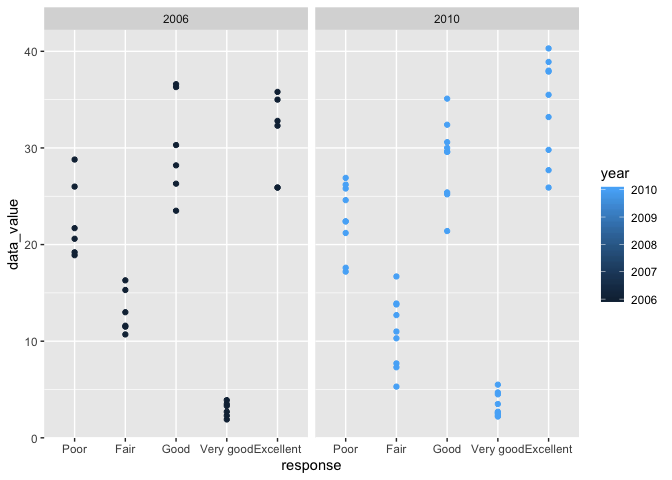
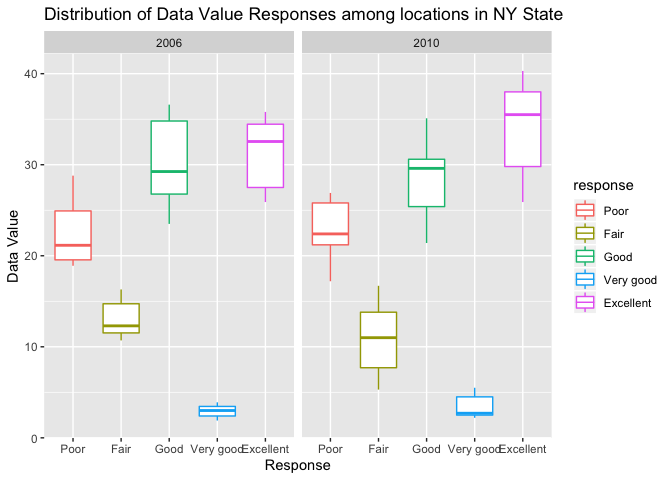
problem 3 complete

diff --git a/p8105_hw3_nja2140.md b/p8105_hw3_nja2140.md
@@ -351,9 +351,14 @@ brfss_three
 ``` r
 two_dv=
   brfss_three %>%
-  ggplot(aes(x = response, y = data_value, color = year)) +
-  geom_point() +
-  facet_grid(. ~year)
+  ggplot(aes(x = response, y = data_value, color = response)) +
+  geom_boxplot() +
+  facet_grid(. ~year) +
+  labs(
+    title = "Distribution of Data Value Responses among locations in NY State",
+    x = "Response",
+    y = "Data Value"
+  )
 two_dv
 ```
 
@@ -370,7 +375,7 @@ acce_data =
   janitor::clean_names() %>%
   mutate(day = factor(day, labels = c("Monday", "Tuesday", "Wednesday", "Thursday", "Friday",     "Saturday", "Sunday")), dow = day == "Saturday" | day == "Sunday",
          dow = ifelse(dow ==TRUE, "Weekend", "Weekday")) %>% 
-  select(week, day, dow, everything(), -day_id) 
+  select(week, day, dow, everything()) 
 ```
 
     ## Parsed with column specification:
@@ -385,55 +390,111 @@ acce_data =
 acce_data
 ```
 
-    ## # A tibble: 35 x 1,443
-    ##     week day   dow   activity_1 activity_2 activity_3 activity_4 activity_5
-    ##    <dbl> <fct> <chr>      <dbl>      <dbl>      <dbl>      <dbl>      <dbl>
-    ##  1     1 Mond… Week…       88.4       82.2       64.4       70.0       75.0
-    ##  2     1 Tues… Week…        1          1          1          1          1  
-    ##  3     1 Wedn… Week…        1          1          1          1          1  
-    ##  4     1 Thur… Week…        1          1          1          1          1  
-    ##  5     1 Frid… Week…       47.4       48.8       46.9       35.8       49.0
-    ##  6     1 Satu… Week…       64.8       59.5       73.7       45.7       42.4
-    ##  7     1 Sund… Week…       71.1      103.        68.5       45.4       37.8
-    ##  8     2 Mond… Week…      675        542       1010        779        509  
-    ##  9     2 Tues… Week…      291        335        393        335        263  
-    ## 10     2 Wedn… Week…       64         11          1          1          1  
-    ## # … with 25 more rows, and 1,435 more variables: activity_6 <dbl>,
-    ## #   activity_7 <dbl>, activity_8 <dbl>, activity_9 <dbl>,
-    ## #   activity_10 <dbl>, activity_11 <dbl>, activity_12 <dbl>,
-    ## #   activity_13 <dbl>, activity_14 <dbl>, activity_15 <dbl>,
-    ## #   activity_16 <dbl>, activity_17 <dbl>, activity_18 <dbl>,
-    ## #   activity_19 <dbl>, activity_20 <dbl>, activity_21 <dbl>,
-    ## #   activity_22 <dbl>, activity_23 <dbl>, activity_24 <dbl>,
-    ## #   activity_25 <dbl>, activity_26 <dbl>, activity_27 <dbl>,
-    ## #   activity_28 <dbl>, activity_29 <dbl>, activity_30 <dbl>,
-    ## #   activity_31 <dbl>, activity_32 <dbl>, activity_33 <dbl>,
-    ## #   activity_34 <dbl>, activity_35 <dbl>, activity_36 <dbl>,
-    ## #   activity_37 <dbl>, activity_38 <dbl>, activity_39 <dbl>,
-    ## #   activity_40 <dbl>, activity_41 <dbl>, activity_42 <dbl>,
-    ## #   activity_43 <dbl>, activity_44 <dbl>, activity_45 <dbl>,
-    ## #   activity_46 <dbl>, activity_47 <dbl>, activity_48 <dbl>,
-    ## #   activity_49 <dbl>, activity_50 <dbl>, activity_51 <dbl>,
-    ## #   activity_52 <dbl>, activity_53 <dbl>, activity_54 <dbl>,
-    ## #   activity_55 <dbl>, activity_56 <dbl>, activity_57 <dbl>,
-    ## #   activity_58 <dbl>, activity_59 <dbl>, activity_60 <dbl>,
-    ## #   activity_61 <dbl>, activity_62 <dbl>, activity_63 <dbl>,
-    ## #   activity_64 <dbl>, activity_65 <dbl>, activity_66 <dbl>,
-    ## #   activity_67 <dbl>, activity_68 <dbl>, activity_69 <dbl>,
-    ## #   activity_70 <dbl>, activity_71 <dbl>, activity_72 <dbl>,
-    ## #   activity_73 <dbl>, activity_74 <dbl>, activity_75 <dbl>,
-    ## #   activity_76 <dbl>, activity_77 <dbl>, activity_78 <dbl>,
-    ## #   activity_79 <dbl>, activity_80 <dbl>, activity_81 <dbl>,
-    ## #   activity_82 <dbl>, activity_83 <dbl>, activity_84 <dbl>,
-    ## #   activity_85 <dbl>, activity_86 <dbl>, activity_87 <dbl>,
-    ## #   activity_88 <dbl>, activity_89 <dbl>, activity_90 <dbl>,
-    ## #   activity_91 <dbl>, activity_92 <dbl>, activity_93 <dbl>,
-    ## #   activity_94 <dbl>, activity_95 <dbl>, activity_96 <dbl>,
-    ## #   activity_97 <dbl>, activity_98 <dbl>, activity_99 <dbl>,
-    ## #   activity_100 <dbl>, activity_101 <dbl>, activity_102 <dbl>,
-    ## #   activity_103 <dbl>, activity_104 <dbl>, activity_105 <dbl>, …
+    ## # A tibble: 35 x 1,444
+    ##     week day   dow   day_id activity_1 activity_2 activity_3 activity_4
+    ##    <dbl> <fct> <chr>  <dbl>      <dbl>      <dbl>      <dbl>      <dbl>
+    ##  1     1 Mond… Week…      1       88.4       82.2       64.4       70.0
+    ##  2     1 Tues… Week…      2        1          1          1          1  
+    ##  3     1 Wedn… Week…      3        1          1          1          1  
+    ##  4     1 Thur… Week…      4        1          1          1          1  
+    ##  5     1 Frid… Week…      5       47.4       48.8       46.9       35.8
+    ##  6     1 Satu… Week…      6       64.8       59.5       73.7       45.7
+    ##  7     1 Sund… Week…      7       71.1      103.        68.5       45.4
+    ##  8     2 Mond… Week…      8      675        542       1010        779  
+    ##  9     2 Tues… Week…      9      291        335        393        335  
+    ## 10     2 Wedn… Week…     10       64         11          1          1  
+    ## # … with 25 more rows, and 1,436 more variables: activity_5 <dbl>,
+    ## #   activity_6 <dbl>, activity_7 <dbl>, activity_8 <dbl>,
+    ## #   activity_9 <dbl>, activity_10 <dbl>, activity_11 <dbl>,
+    ## #   activity_12 <dbl>, activity_13 <dbl>, activity_14 <dbl>,
+    ## #   activity_15 <dbl>, activity_16 <dbl>, activity_17 <dbl>,
+    ## #   activity_18 <dbl>, activity_19 <dbl>, activity_20 <dbl>,
+    ## #   activity_21 <dbl>, activity_22 <dbl>, activity_23 <dbl>,
+    ## #   activity_24 <dbl>, activity_25 <dbl>, activity_26 <dbl>,
+    ## #   activity_27 <dbl>, activity_28 <dbl>, activity_29 <dbl>,
+    ## #   activity_30 <dbl>, activity_31 <dbl>, activity_32 <dbl>,
+    ## #   activity_33 <dbl>, activity_34 <dbl>, activity_35 <dbl>,
+    ## #   activity_36 <dbl>, activity_37 <dbl>, activity_38 <dbl>,
+    ## #   activity_39 <dbl>, activity_40 <dbl>, activity_41 <dbl>,
+    ## #   activity_42 <dbl>, activity_43 <dbl>, activity_44 <dbl>,
+    ## #   activity_45 <dbl>, activity_46 <dbl>, activity_47 <dbl>,
+    ## #   activity_48 <dbl>, activity_49 <dbl>, activity_50 <dbl>,
+    ## #   activity_51 <dbl>, activity_52 <dbl>, activity_53 <dbl>,
+    ## #   activity_54 <dbl>, activity_55 <dbl>, activity_56 <dbl>,
+    ## #   activity_57 <dbl>, activity_58 <dbl>, activity_59 <dbl>,
+    ## #   activity_60 <dbl>, activity_61 <dbl>, activity_62 <dbl>,
+    ## #   activity_63 <dbl>, activity_64 <dbl>, activity_65 <dbl>,
+    ## #   activity_66 <dbl>, activity_67 <dbl>, activity_68 <dbl>,
+    ## #   activity_69 <dbl>, activity_70 <dbl>, activity_71 <dbl>,
+    ## #   activity_72 <dbl>, activity_73 <dbl>, activity_74 <dbl>,
+    ## #   activity_75 <dbl>, activity_76 <dbl>, activity_77 <dbl>,
+    ## #   activity_78 <dbl>, activity_79 <dbl>, activity_80 <dbl>,
+    ## #   activity_81 <dbl>, activity_82 <dbl>, activity_83 <dbl>,
+    ## #   activity_84 <dbl>, activity_85 <dbl>, activity_86 <dbl>,
+    ## #   activity_87 <dbl>, activity_88 <dbl>, activity_89 <dbl>,
+    ## #   activity_90 <dbl>, activity_91 <dbl>, activity_92 <dbl>,
+    ## #   activity_93 <dbl>, activity_94 <dbl>, activity_95 <dbl>,
+    ## #   activity_96 <dbl>, activity_97 <dbl>, activity_98 <dbl>,
+    ## #   activity_99 <dbl>, activity_100 <dbl>, activity_101 <dbl>,
+    ## #   activity_102 <dbl>, activity_103 <dbl>, activity_104 <dbl>, …
 
-The size of the dataset `acce_data` is 35 observtaions and 1443
+The size of the dataset `acce_data` is 35 observtaions and 1444
 variables. Key variables include what week and day of the week the data
 was collected, and the accelerometer data for each minute of the day
 data was collected.
+
+Traditional analyses of accelerometer data focus on the total activity
+over the day. Using your tidied dataset, aggregate accross minutes to
+create a total activity variable for each day, and create a table
+showing these totals. Are any trends apparent?
+
+``` r
+accel_table = acce_data%>%
+  pivot_longer(activity_1:activity_1440,
+    names_to = "activity_minute",
+    values_to = "activity") %>% 
+  group_by(day_id, day, week, dow) %>% 
+  summarize(daily_activity=sum(activity)) 
+accel_table
+```
+
+    ## # A tibble: 35 x 5
+    ## # Groups:   day_id, day, week [35]
+    ##    day_id day        week dow     daily_activity
+    ##     <dbl> <fct>     <dbl> <chr>            <dbl>
+    ##  1      1 Monday        1 Weekday        480543.
+    ##  2      2 Tuesday       1 Weekday         78828.
+    ##  3      3 Wednesday     1 Weekday        376254 
+    ##  4      4 Thursday      1 Weekday        631105 
+    ##  5      5 Friday        1 Weekday        355924.
+    ##  6      6 Saturday      1 Weekend        307094.
+    ##  7      7 Sunday        1 Weekend        340115.
+    ##  8      8 Monday        2 Weekday        568839 
+    ##  9      9 Tuesday       2 Weekday        295431 
+    ## 10     10 Wednesday     2 Weekday        607175 
+    ## # … with 25 more rows
+
+From the table, we cannot observe any particular trends.
+
+Make a single-panel plot that shows the 24-hour activity time courses
+for each day and use color to indicate day of the week. Describe in
+words any patterns or conclusions you can make based on this graph.
+
+``` r
+plot_accel=
+  accel_table %>%
+  ggplot(aes(x = day_id, y = daily_activity, color = day)) +
+  geom_point() +
+  geom_line() +
+  labs(
+    title = "24 Hour Activity Time by Day for Five Weeks",
+    x = "Day_ID",
+    y = "Total Activity Tiime"
+  )
+plot_accel
+```
+
+![](p8105_hw3_nja2140_files/figure-gfm/unnamed-chunk-13-1.png)<!-- -->
+From this graph, I can see that on certain day’s of the week, such as
+Monday, Saturday and Sunday, the participant had a consistent amount of
+daily activity while days like Tuesday and Wednesday vary.
